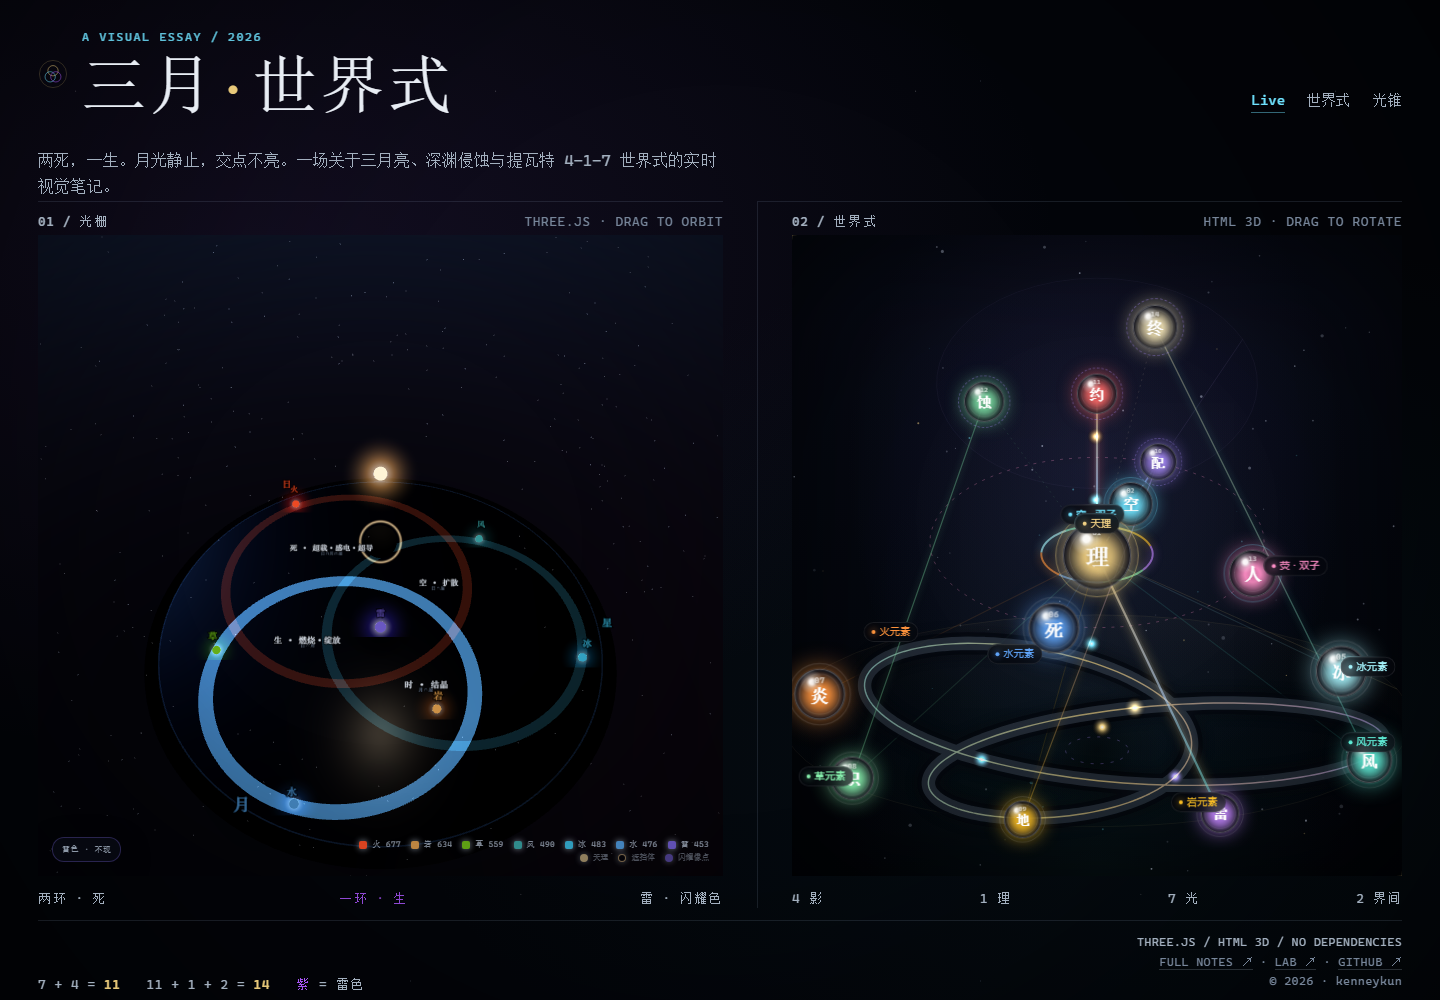
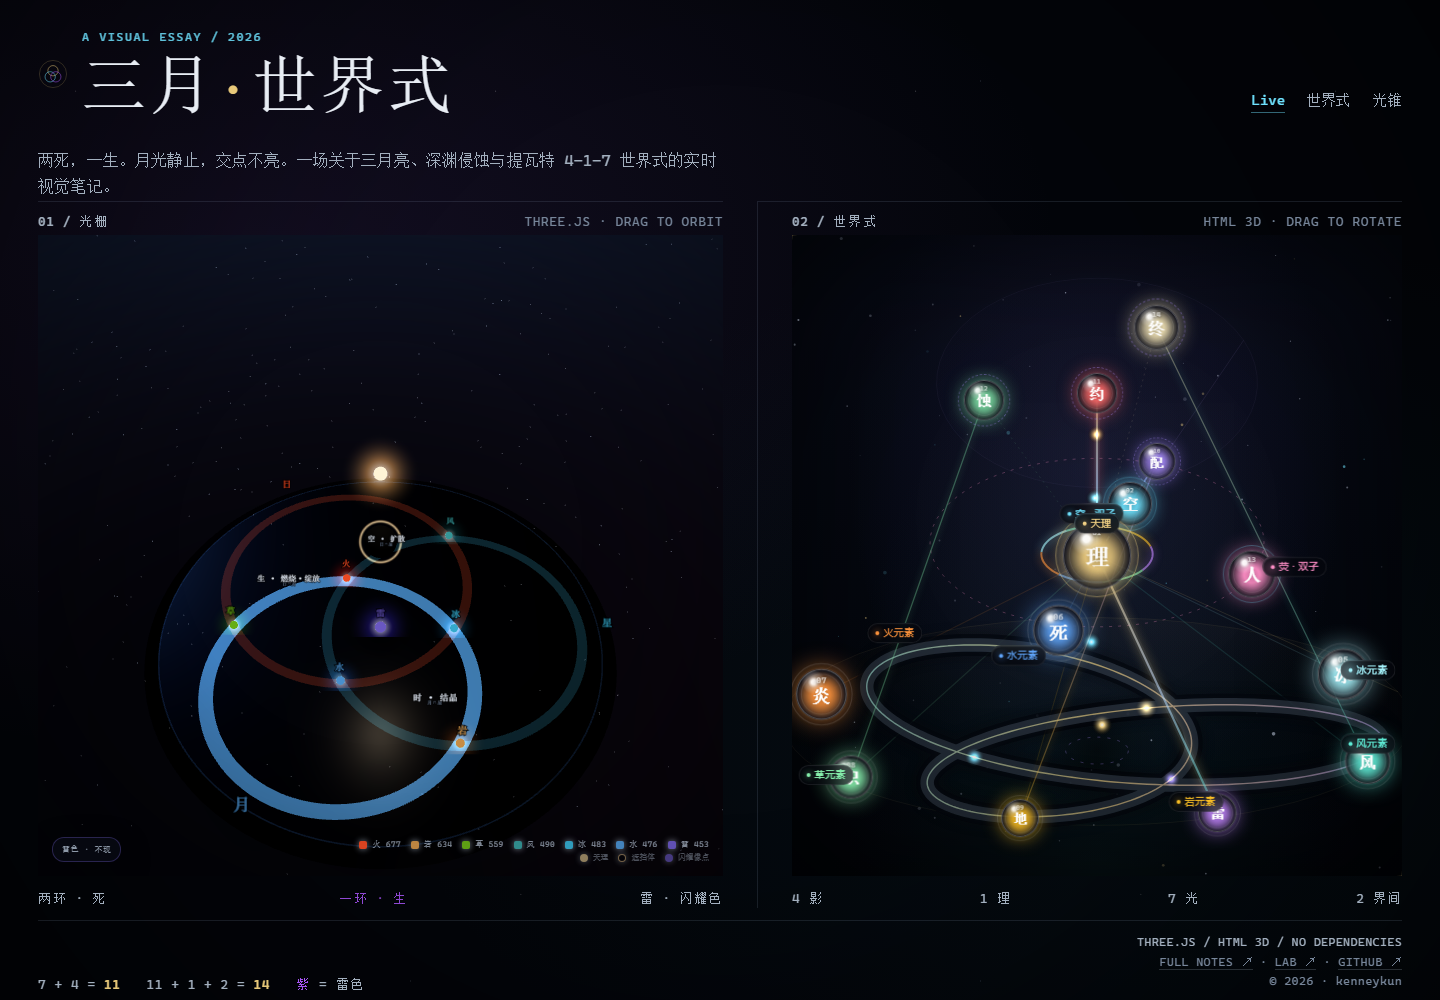
Seat the elements on the crossings again
The previous pass put the seven elements on the circle rims; the reference triquetra puts them on the focal crossings. Seats move back to the six pairwise intersections - fire at the top (90 degrees), then wind 30, cryo 330, geo 270, hydro 210, dendro 150 - with electro at the centre. The three lens labels (regeneration/bloom, diffusion, crystallisation) move outward and the centre family (overload/electro-charged/superconduct) moves into the sidebar legend so the canvas stops crowding. Sidebar redesign, background and camera from the previous commit are kept.

diff --git a/docs/prism_three_planb.html b/docs/prism_three_planb.html
@@ -441,7 +441,7 @@
       <button class="btn" id="reset" type="button">重置视角</button>
     </section>
 
-    <p class="note">三圆 = 日 / 月 / 星三域；七元素各占一座，<b>雷</b>在中央三重交叠；三圆两两交叠加中央交叠 = 四块区域，读作四影。</p>
+    <p class="note">三圆 = 日 / 月 / 星三域；七元素各占一个<b>交叉焦点</b>（六边形 60° 一个），<b>雷</b>在正中。<br>四影：<b>生</b> 日∩月 燃烧·绽放 · <b>空</b> 日∩星 扩散 · <b>死</b> 日∩月∩星 超载·感电·超导 · <b>时</b> 月∩星 结晶。</p>
 
     <details class="adv">
       <summary>已退役控件</summary>
@@ -4349,6 +4349,7 @@ window.M3 = {
 
 </script>
 <script>
+
 /* =====================================================================
    三月 · 光栅 — 天理点光源 / 日食遮挡 / 三面弧面闪耀光栅
    ---------------------------------------------------------------------
@@ -4453,22 +4454,25 @@ window.M3 = {
     { key: 'star', name: '星', cx: 3.03,  cz: -1.75, color: '#35AACC' },
   ];
 
+  // 七座 = 六个交叉焦点（六边形，60° 一个）+ 中央
+  // 角度顺序（自 90° 起顺时针）：火 90 / 风 30 / 冰 330 / 岩 270 / 水 210 / 草 150
   const SEATS = [
-    { key: 'fire',    name: '火', host: '日',       x: 0, z: 3.5 + RHO },
-    { key: 'grass',   name: '草', host: '月',       x: -3.03 - RHO * Math.SQRT1_2, z: -1.75 + RHO * Math.SQRT1_2 },
-    { key: 'water',   name: '水', host: '月',       x: -3.03 - RHO * Math.SQRT1_2, z: -1.75 - RHO * Math.SQRT1_2 },
-    { key: 'anemo',   name: '风', host: '星',       x: 3.03 + RHO * Math.SQRT1_2,  z: -1.75 + RHO * Math.SQRT1_2 },
-    { key: 'ice',     name: '冰', host: '星',       x: 3.03 + RHO * Math.SQRT1_2,  z: -1.75 - RHO * Math.SQRT1_2 },
-    { key: 'thunder', name: '雷', host: '中心',     x: 0, z: 0 },
-    { key: 'geo',     name: '岩', host: '月∩星',    x: 0, z: -5.1 },
+    { key: 'fire',    name: '火', x: 0,       z: 3.5 },
+    { key: 'anemo',   name: '风', x: 6.0622,  z: 3.5 },
+    { key: 'ice',     name: '冰', x: 3.03,    z: -1.75 },
+    { key: 'geo',     name: '岩', x: 0,       z: -7 },
+    { key: 'water',   name: '水', x: -3.03,   z: -1.75 },
+    { key: 'grass',   name: '草', x: -6.0622, z: 3.5 },
+    { key: 'thunder', name: '雷', x: 0,       z: 0 },
   ];
 
   // 四区 = 四影：每块交叠区读成一影，附该区的反应族
+  // 四区 = 四影：三块两两交叠 + 中央三重交叠（中央那块贴近雷）
   const ZONES = [
-    { shade: '生', name: '燃烧·绽放', sub: '日∩月',      x: -3.55, z: 0.55 },
-    { shade: '空', name: '扩散',      sub: '日∩星',      x: 3.55,  z: 0.55 },
-    { shade: '死', name: '超载·感电·超导', sub: '日∩月∩星', x: 0, z: 5.15 },
-    { shade: '时', name: '结晶',      sub: '月∩星',      x: 0,     z: -4.15 },
+    { shade: '生', name: '燃烧·绽放', sub: '日∩月', x: -2.75, z: 4.35 },
+    { shade: '空', name: '扩散',      sub: '日∩星', x: 2.75,  z: 4.35 },
+
+    { shade: '时', name: '结晶',      sub: '月∩星', x: 0,     z: -4.9 },
   ];
   // 六个交点：方位角 30° + 60°k，各由两条环共同确认
   const NODES = [
@@ -5664,6 +5668,7 @@ window.M3 = {
     showFallback(err);
   }
 })();
+
 
 </script>
 </body>

diff --git a/docs/index.html b/docs/index.html
@@ -179,7 +179,7 @@
     <section class="figure">
       <div class="fig-head"><b>01 / 光栅</b><span>Three.js · drag to orbit</span></div>
       <div class="frame-wrap">
-        <iframe src="prism_three_planb.html?visual=1&v=domain1" title="三域结构：日 / 月 / 星三圆、七元素座位与四影交叠" loading="eager" scrolling="no"></iframe>
+        <iframe src="prism_three_planb.html?visual=1&v=domain2" title="三域结构：日 / 月 / 星三圆、七元素座位与四影交叠" loading="eager" scrolling="no"></iframe>
       </div>
       <div class="fig-foot">
         <span>两环 · 死</span>
@@ -191,7 +191,7 @@
     <section class="figure tree">
       <div class="fig-head"><b>02 / 世界式</b><span>HTML 3D · drag to rotate</span></div>
       <div class="frame-wrap">
-        <iframe src="world_formula.html?embed=1&v=domain1" title="世界式十四节点立体图" loading="eager" scrolling="no"></iframe>
+        <iframe src="world_formula.html?embed=1&v=domain2" title="世界式十四节点立体图" loading="eager" scrolling="no"></iframe>
       </div>
       <div class="fig-foot">
         <span>4 影</span>
